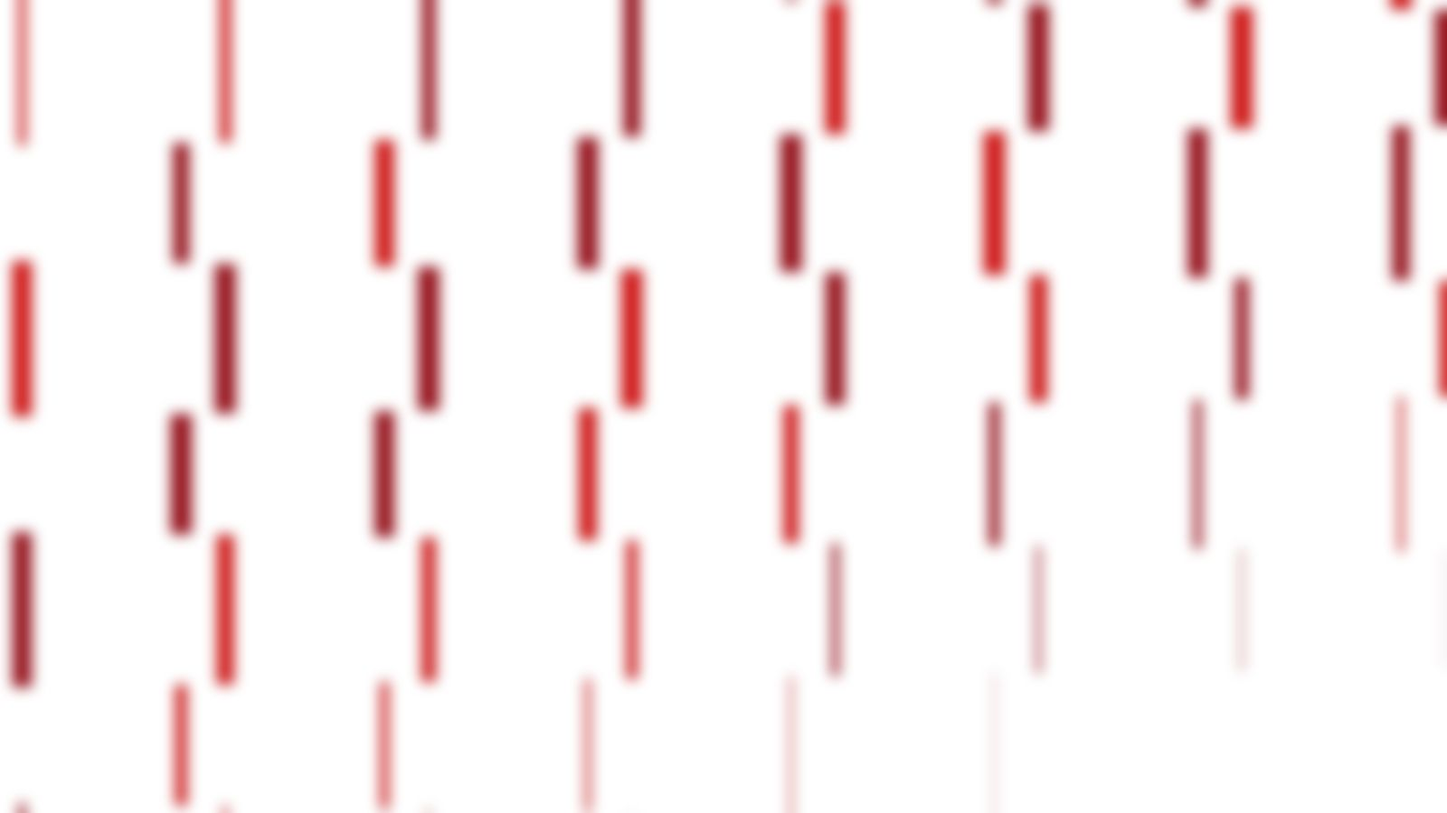
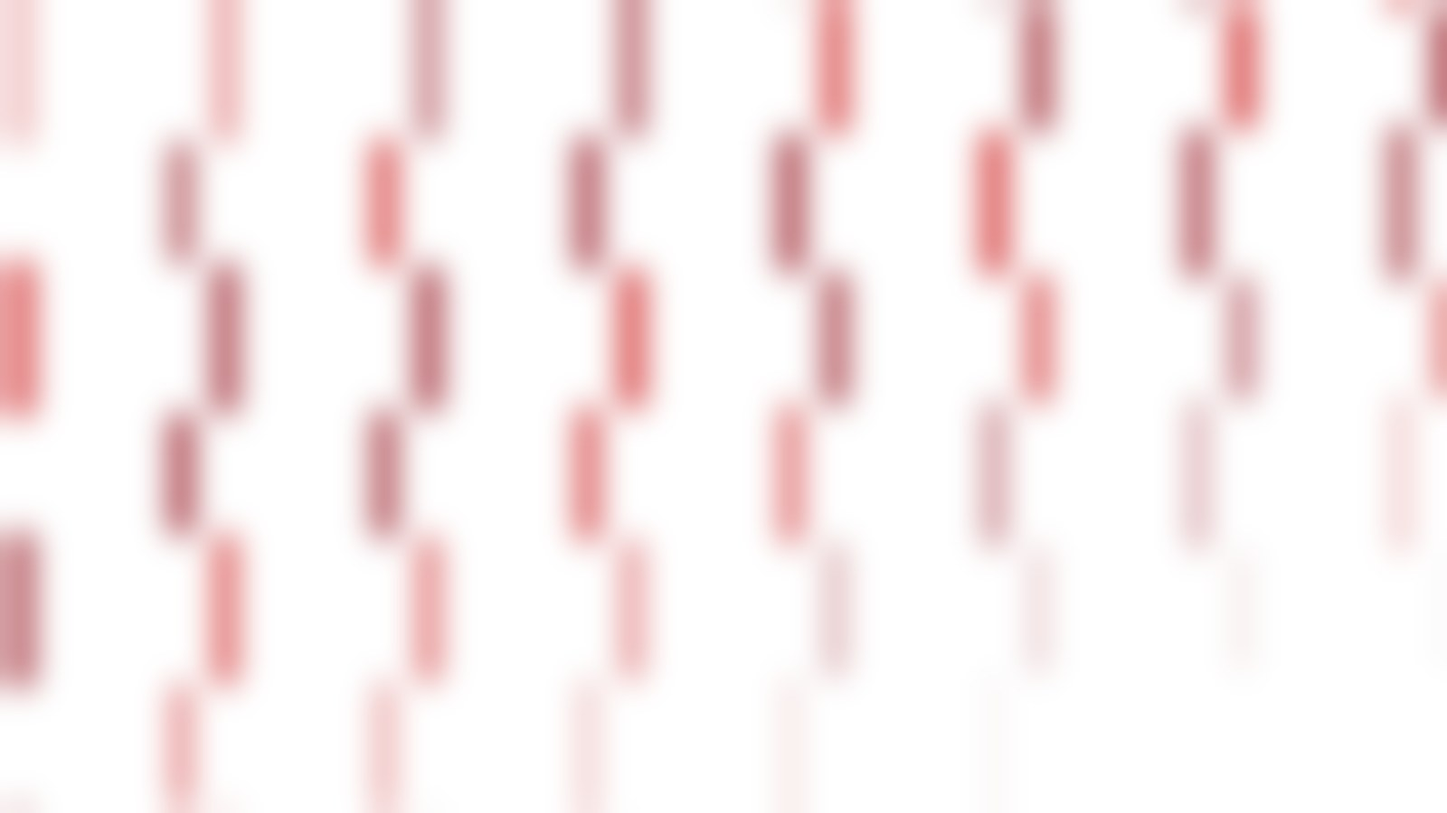
v1.62: full-width home cards, solid top cards, black glass borders, menu gap, blurrier background, triple-tap live test mode
Claude-Session: https://claude.ai/code/session_01VMaw1RNinh1j9DMArVUfZ8

diff --git a/www/index.html b/www/index.html
@@ -20,9 +20,9 @@
 <script src="vendor/capacitor.js"></script>
 <script src="version.js"></script>
 <style>
-:root{--gl-bd:rgb(40 40 40/.14);--gl-hi:inset 0 1px 0 rgb(255 255 255/.85);--sat:env(safe-area-inset-top,0px);--bar:rgb(255 255 255/.62);--bar-tx:#282828;--bar-bd:rgb(40 40 40/.1);--glass:rgb(255 255 255/.62);--menu:rgb(255 255 255/.66);--glass-strong:rgb(244 244 245/.9);--glass-bd:rgb(255 255 255/.55);--blk:#282828;--blk-rgb:40 40 40;--bg:#f4f4f5;--bg-rgb:244 244 245;--sf:#fff;--sf-rgb:255 255 255;--tx:#282828;--mu:#71717a;--bd:#e4e4e7;box-sizing:border-box;padding-bottom:env(safe-area-inset-bottom,0px)}
-@media (prefers-color-scheme:dark){:root:not([data-theme="light"]){color-scheme:dark;--gl-bd:rgb(255 255 255/.16);--gl-hi:inset 0 1px 0 rgb(255 255 255/.07);--menu:rgb(0 0 0/.6);--bar:rgb(0 0 0/.6);--bar-tx:#fff;--bar-bd:rgb(255 255 255/.1);--glass:rgb(0 0 0/.5);--glass-strong:rgb(20 20 22/.88);--glass-bd:rgb(255 255 255/.08);--blk:#000000;--blk-rgb:0 0 0;--bg:#000000;--bg-rgb:0 0 0;--sf:#333333;--sf-rgb:0 0 0;--tx:#f4f4f5;--mu:#a1a1aa;--bd:#444444}}
-:root[data-theme="dark"]{color-scheme:dark;--gl-bd:rgb(255 255 255/.16);--gl-hi:inset 0 1px 0 rgb(255 255 255/.07);--menu:rgb(0 0 0/.6);--bar:rgb(0 0 0/.6);--bar-tx:#fff;--bar-bd:rgb(255 255 255/.1);--glass:rgb(0 0 0/.5);--glass-strong:rgb(20 20 22/.88);--glass-bd:rgb(255 255 255/.08);--blk:#000000;--blk-rgb:0 0 0;--bg:#000000;--bg-rgb:0 0 0;--sf:#333333;--sf-rgb:0 0 0;--tx:#f4f4f5;--mu:#a1a1aa;--bd:#444444}
+:root{--gl-bd:rgb(0 0 0/.3);--gl-hi:inset 0 1px 0 rgb(255 255 255/.85);--sat:env(safe-area-inset-top,0px);--bar:rgb(255 255 255/.62);--bar-tx:#282828;--bar-bd:rgb(40 40 40/.1);--glass:rgb(255 255 255/.62);--menu:rgb(255 255 255/.66);--glass-strong:rgb(244 244 245/.9);--glass-bd:rgb(255 255 255/.55);--blk:#282828;--blk-rgb:40 40 40;--bg:#f4f4f5;--bg-rgb:244 244 245;--sf:#fff;--sf-rgb:255 255 255;--tx:#282828;--mu:#71717a;--bd:#e4e4e7;box-sizing:border-box;padding-bottom:env(safe-area-inset-bottom,0px)}
+@media (prefers-color-scheme:dark){:root:not([data-theme="light"]){color-scheme:dark;--gl-bd:rgb(255 255 255/.3);--gl-hi:inset 0 1px 0 rgb(255 255 255/.07);--menu:rgb(0 0 0/.6);--bar:rgb(0 0 0/.6);--bar-tx:#fff;--bar-bd:rgb(255 255 255/.1);--glass:rgb(0 0 0/.5);--glass-strong:rgb(20 20 22/.88);--glass-bd:rgb(255 255 255/.08);--blk:#000000;--blk-rgb:0 0 0;--bg:#000000;--bg-rgb:0 0 0;--sf:#333333;--sf-rgb:0 0 0;--tx:#f4f4f5;--mu:#a1a1aa;--bd:#444444}}
+:root[data-theme="dark"]{color-scheme:dark;--gl-bd:rgb(255 255 255/.3);--gl-hi:inset 0 1px 0 rgb(255 255 255/.07);--menu:rgb(0 0 0/.6);--bar:rgb(0 0 0/.6);--bar-tx:#fff;--bar-bd:rgb(255 255 255/.1);--glass:rgb(0 0 0/.5);--glass-strong:rgb(20 20 22/.88);--glass-bd:rgb(255 255 255/.08);--blk:#000000;--blk-rgb:0 0 0;--bg:#000000;--bg-rgb:0 0 0;--sf:#333333;--sf-rgb:0 0 0;--tx:#f4f4f5;--mu:#a1a1aa;--bd:#444444}
 html,body{overscroll-behavior:none}html{scroll-padding-top:var(--sat);touch-action:manipulation;-webkit-text-size-adjust:100%}
 body{background:var(--bg);color:var(--tx);font-family:"Noto Sans Hebrew",system-ui,-apple-system,"Segoe UI",Arial,sans-serif;margin:0}
 /* פס הסטטוס שקוף: הכותרת (זכוכית חלבית) נמשכת מתחתיו */
@@ -34,9 +34,10 @@ body::before{content:"";position:fixed;inset:0;z-index:-2;pointer-events:none;ba
 .me-row{background:rgb(210 25 25/.08);color:#b31515}.dt-home{background:#D21919;color:#fff}.dt-away{background:var(--tx);color:var(--bg)}.tint-glass{border:1px solid var(--gl-bd);background:rgb(0 0 0/.09);-webkit-backdrop-filter:blur(24px) saturate(1.8);backdrop-filter:blur(24px) saturate(1.8)}
 @media (prefers-color-scheme:dark){:root:not([data-theme="light"]) .tint-glass{background:rgb(0 0 0/.4)}}:root[data-theme="dark"] .tint-glass{background:rgb(0 0 0/.4)}
 .red-glass{border:1px solid rgb(255 255 255/.28);background:rgb(210 25 25/.72);-webkit-backdrop-filter:blur(24px) saturate(1.8);backdrop-filter:blur(24px) saturate(1.8);box-shadow:inset 0 1px 0 rgb(255 255 255/.18)}
+.sf.p-1.rounded-xl>button{border-radius:11px}
 .seg{background:rgb(0 0 0/.06);border:1px solid var(--gl-bd)}
 @media (prefers-color-scheme:dark){:root:not([data-theme="light"]) .seg{background:rgb(0 0 0/.45)}}:root[data-theme="dark"] .seg{background:rgb(0 0 0/.45)}
-.red-card,[style*="linear-gradient(135deg"]{border:1px solid rgb(255 255 255/.22);box-shadow:inset 0 1px 0 rgb(255 255 255/.18)}
+.red-card,[style*="linear-gradient(135deg"]{border:1px solid var(--gl-bd);box-shadow:inset 0 1px 0 rgb(255 255 255/.18)}
 .on-glass{display:inline-flex;align-items:center;gap:6px;background:rgb(var(--sf-rgb)/.62);-webkit-backdrop-filter:blur(24px) saturate(1.8);backdrop-filter:blur(24px) saturate(1.8);border:1px solid var(--gl-bd);border-radius:999px;padding:3px 10px;max-width:100%}
 .on-glass.box{border-radius:12px;padding:6px 10px}.on-glass.txt{display:inline-block;border-radius:12px;padding:4px 12px;line-height:1.6}
 .fbar{position:sticky;top:var(--hdh,64px);z-index:18;margin:0 -12px;padding:4px 12px 0;border-bottom:1px solid transparent;transition:background-color .2s var(--ease),border-color .2s var(--ease),padding .2s var(--ease),box-shadow .2s var(--ease)}
@@ -66,7 +67,7 @@ button,a{-webkit-tap-highlight-color:transparent;transition:transform .18s var(-
 @media (prefers-color-scheme:dark){:root:not([data-theme="light"]) .text-green-700{color:#4ade80}:root:not([data-theme="light"]) .me-row{background:rgb(210 25 25/.18);color:#ff5c5c}:root:not([data-theme="light"]) .nav-pill.on{background:rgb(210 25 25/.25)}}
 :root[data-theme="dark"] .text-green-700{color:#4ade80}:root[data-theme="dark"] .me-row{background:rgb(210 25 25/.18);color:#ff5c5c}:root[data-theme="dark"] .nav-pill.on{background:rgb(210 25 25/.25)}
 @media (prefers-reduced-motion:reduce){*,*::before,*::after{animation:none!important;transition:none!important}}
-.car{display:flex;gap:10px;overflow-x:auto;scroll-snap-type:x mandatory;scrollbar-width:none;overscroll-behavior-x:contain;padding:2px 28px;scroll-padding:0 28px}.car::-webkit-scrollbar{display:none}.car>*{flex:0 0 100%;min-width:0;scroll-snap-align:center}.car .sf{box-shadow:var(--gl-hi)}
+.car{display:flex;gap:12px;overflow-x:auto;scroll-snap-type:x mandatory;scrollbar-width:none;overscroll-behavior-x:contain;padding:6px 12px;margin:-6px 0;scroll-padding:0 12px}.car::-webkit-scrollbar{display:none}.car>*{flex:0 0 100%;min-width:0;scroll-snap-align:center}.car .sf{box-shadow:var(--gl-hi)}
 </style>
 </head>
 <body>
@@ -220,6 +221,26 @@ const mkLive=(d,f)=>{const jh=d.homeCompetitor&&d.homeCompetitor.id===634,num=x=
   q:(d.stages||[]).filter(x=>x.homeCompetitorScore>=0&&x.awayCompetitorScore>=0&&/רבע|הארכה|ר'|OT|Q/.test(x.name||x.shortName||'')).map(x=>({n:x.shortName||x.name,h:num(x.homeCompetitorScore),a:num(x.awayCompetitorScore)})),
   top:((d.topPerformers&&d.topPerformers.categories)||[]).map(c=>({n:c.name,h:c.homePlayer&&{p:c.homePlayer.name,v:((c.homePlayer.stats||[])[0]||{}).value},a:c.awayPlayer&&{p:c.awayPlayer.name,v:((c.awayPlayer.stats||[])[0]||{}).value}})),
   url:url365(f),at:Date.now()}};
+
+/* מצב בדיקה (3 לחיצות על השורה שבתחתית מסך הבית): הדמיה של המשחק הבא כאילו הוא בלייב, על בסיס הסטטיסטיקות של המשחק האחרון. שום נתון לא נשמר */
+function mkDemo(n,F){const src=F.filter(f=>f.r&&GS[f.id]&&GS[f.id].q).sort((a,b)=>b.t-a.t)[0],g0=src?GS[src.id]:null,jh=!!n.h,
+  q=(g0?g0.q.slice(0,3).map(x=>x.slice()):[[22,18],[19,21],[24,20]]).concat([[7,5]]),sc=[0,1].map(i=>q.reduce((a,x)=>a+x[i],0)),
+  pn=i=>((g0&&g0.pl&&g0.pl[i])||[]).map(r=>r[0]).filter(Boolean),J=pn(0),O=pn(1),pick=a=>a.length?a[Math.random()*a.length|0]:'';
+ const L={app:n.id,id:0,jh,status:'live',st:'רבע 4',clock:'07:40',q:[],top:[],url:url365(n),demo:1,J,O,pick,qa:q,
+  gs:g0?{...g0,q}:null,pbp:[{q:4,clock:'10:00',side:null,text:'תחילת רבע 4',big:0,sc:null}]};
+ const s0=[sc[0]-q[3][0],sc[1]-q[3][1]];L.pbp.unshift({q:4,clock:'08:55',side:'j',text:(pick(J)||ME)+' – קליעה ל-2',big:1,sc:[s0[0]+2,s0[1]]});
+ return demoSync(L,sc)}
+const demoSync=(L,sc)=>{const r=[sc[0],sc[1]],hs=L.jh?r[0]:r[1],as=L.jh?r[1]:r[0];
+ return{...L,r,hs,as,at:Date.now(),q:L.qa.map((x,i)=>({n:i<4?'ר'+(i+1):'הא'+(i-3),h:L.jh?x[0]:x[1],a:L.jh?x[1]:x[0]})),gs:L.gs?{...L.gs,q:L.qa}:null}};
+/* כל כמה שניות: השעון מתקדם, ולפעמים אחת הקבוצות קולעת */
+function demoTick(L){const t=L.clock.split(':').map(Number);let sec=t[0]*60+t[1]-12,st=L.st,qa=L.qa.map(x=>x.slice()),pbp=L.pbp.slice(),qn=qa.length;
+ if(sec<=0){sec=300;qa.push([0,0]);qn=qa.length;st='הארכה';pbp.unshift({q:qn,clock:'05:00',side:null,text:'תחילת הארכה',big:0,sc:null})}
+ const clock=String(sec/60|0).padStart(2,'0')+':'+String(sec%60).padStart(2,'0');
+ if(Math.random()<.7){const i=Math.random()<.55?0:1,pts=[2,2,3,1][Math.random()*4|0];qa[qa.length-1][i]+=pts;
+  const sc=[0,1].map(k=>qa.reduce((a,x)=>a+x[k],0));
+  pbp.unshift({q:qn,clock,side:i?'o':'j',text:(L.pick(i?L.O:L.J)||(i?'יריבה':ME))+' – '+(pts===3?'שלשה':pts===2?'קליעה ל-2':'קליעה מהעונשין'),big:1,sc})}
+ const sc=[0,1].map(k=>qa.reduce((a,x)=>a+x[k],0));
+ return demoSync({...L,st,clock,qa,pbp},sc)}
 
 function useSportsData(){
  const [s,setS]=useState({ld:1,up:null,mode:'Snapshot',F:F0});
@@ -630,7 +651,7 @@ function Pbp({L}){
 function Game({g}){
  const A=useContext(Ctx),LG=A.lg&&A.lg.app===g.id&&A.lg.status!=='pre'?A.lg:null,[tb,setTb]=useState('g'),gs=LG&&LG.gs?LG.gs:(GS[g.id]||liveGS()[g.id]),gg=LG?{...g,r:LG.r}:g,pf=Array.isArray(GP[g.id])?GP[g.id].filter(p=>Array.isArray(p)&&p.length>1):null,hm=g.h?ME:g.o,aw=g.h?g.o:ME,sc=g.r?(g.h?[g.r[0],g.r[1]]:[g.r[1],g.r[0]]):null;
  return html`<div><button onClick=${()=>A.setGm(null)} class="on-glass back-stick text-[#D21919] font-bold mb-3"><${I} n="back" s=${16}/>חזרה</button>
- ${LG?html`<div class="rounded-2xl p-4 text-white" style=${{background:'linear-gradient(135deg,rgb(210 25 25/.86),rgb(var(--blk-rgb)/.72))',WebkitBackdropFilter:'blur(24px) saturate(1.8)',backdropFilter:'blur(24px) saturate(1.8)'}}><div class="text-xs opacity-80 mb-3">${cmp(g)} · ${fdf(g)}</div><${LiveScore} L=${LG} g=${g} big=${1}/></div><div class="mt-2 text-center"><span class="on-glass text-[11px] mu">${LG.status==='live'?'סטטיסטיקות בלייב מ-365scores · מתעדכן כל 20 שניות':'סטטיסטיקות סיום מ-365scores'}</span></div>`:html`<div class="rounded-2xl p-4 text-white" style=${{background:'linear-gradient(135deg,rgb(210 25 25/.86),rgb(var(--blk-rgb)/.72))',WebkitBackdropFilter:'blur(24px) saturate(1.8)',backdropFilter:'blur(24px) saturate(1.8)'}}><div class="text-xs opacity-80 mb-3">${cmp(g)} · ${fdf(g)}</div>
+ ${LG?html`<div class="rounded-2xl p-4 text-white" style=${{background:'linear-gradient(135deg,#D21919,var(--blk))'}}><div class="text-xs opacity-80 mb-3">${cmp(g)} · ${fdf(g)}</div><${LiveScore} L=${LG} g=${g} big=${1}/></div><div class="mt-2 text-center"><span class="on-glass text-[11px] mu">${LG.status==='live'?'סטטיסטיקות בלייב מ-365scores · מתעדכן כל 20 שניות':'סטטיסטיקות סיום מ-365scores'}</span></div>`:html`<div class="rounded-2xl p-4 text-white" style=${{background:'linear-gradient(135deg,#D21919,var(--blk))'}}><div class="text-xs opacity-80 mb-3">${cmp(g)} · ${fdf(g)}</div>
  <div class="flex items-center justify-around text-center"><div><${Cr} n=${hm} s=${68}/><div class="text-sm mt-1">${hm}</div></div>${sc?html`<div class="flex gap-2 text-4xl font-semibold sb" dir="rtl"><span>${sc[0]}</span><span class="opacity-60">–</span><span>${sc[1]}</span></div>`:html`<div class="text-2xl font-semibold sb opacity-80">VS</div>`}<div><${Cr} n=${aw} s=${68}/><div class="text-sm mt-1">${aw}</div></div></div>
  <div class="text-xs opacity-80 mt-3 flex items-center justify-center gap-1"><${I} n="pin" s=${14}/>${g.v||(g.h?'משחק בית':'משחק חוץ')}</div></div>`}
  ${g.r&&!LG?(ytId(g)?html`<div class="mt-3 rounded-xl overflow-hidden bg-black fade-in" style=${{aspectRatio:'16/9'}}><iframe key=${ytId(g)} src=${'https://www.youtube-nocookie.com/embed/'+ytId(g)+'?rel=0&playsinline=1'} title="תקציר המשחק" class="w-full h-full border-0" loading="lazy" referrerPolicy="strict-origin-when-cross-origin" allow="accelerometer; autoplay; clipboard-write; encrypted-media; gyroscope; picture-in-picture; web-share" allowFullScreen></iframe></div>`
@@ -678,7 +699,7 @@ function Player({p}){
  tt=ks.reduce((t,k)=>t.map((x,i)=>x+by[k][i]),new Array(17).fill(0)),fm=md==='a'?avgRow:totRow,ag=ageOf(p[5]),
  HD=['מש׳','דק׳','נק׳','ריב׳','אס׳','חט׳','חס׳',md==='a'?'FG%':'FG',md==='a'?'3P%':'3P',md==='a'?'FT%':'FT','ר״ה','ר״ג','איב׳','עב׳'];
  return html`<div class="stg"><button onClick=${()=>A.setPl(null)} class="on-glass back-stick text-[#D21919] font-bold mb-3"><${I} n="back" s=${16}/>חזרה לסגל</button>
- <div class="rounded-2xl text-white overflow-hidden flex items-stretch" style=${{background:'linear-gradient(135deg,rgb(210 25 25/.86),rgb(var(--blk-rgb)/.72))',WebkitBackdropFilter:'blur(24px) saturate(1.8)',backdropFilter:'blur(24px) saturate(1.8)'}}>
+ <div class="rounded-2xl text-white overflow-hidden flex items-stretch" style=${{background:'linear-gradient(135deg,#D21919,var(--blk))'}}>
   <div class="w-[132px] shrink-0 relative ph-in" style=${{aspectRatio:'4/5'}}><${Ph} u=${p[6]} n=${p[0]} k=${p[9]} cls="absolute inset-0 w-full h-full object-cover object-top"/></div>
   <div class="p-4 flex-1 flex flex-col justify-center min-w-0 nm-in"><div class="text-5xl font-semibold sb opacity-90 leading-none num-in">${p[0]}</div><div class="text-xl font-bold leading-tight mt-1">${p[1]}</div><div class="text-sm opacity-80 mt-1">${p[2]}</div></div></div>
  <div class="stg grid grid-cols-2 gap-2 mt-3">${[['גובה',p[3]+' מ׳'],['אזרחות',p[4]],['תאריך לידה',p[5]+(ag!==''?' · גיל '+ag:'')],['עמדה',p[2]]].map(([l,v])=>html`<div key=${l} class="sf rounded-xl p-3"><div class="text-xs mu">${l}</div><div class="font-medium text-sm mt-0.5">${v}</div></div>`)}</div>
@@ -722,7 +743,7 @@ let FRBLK=typeof location!=='undefined'&&/claudeusercontent\.com$/.test(location
 function ExtPage({k,box}){
  const A=useContext(Ctx),u=EXT[k],nx=k==='tix'?A.F.filter(f=>!f.r&&f.h).sort((a,b)=>a.t-b.t).slice(0,6):[];
  return html`<div class="fixed inset-x-0 z-20 overflow-y-auto" style=${{...box,background:'var(--bg)'}}><div class="max-w-3xl md:max-w-5xl lg:max-w-6xl mx-auto p-3 space-y-3">
- <div class="rounded-2xl text-white p-5 text-center" style=${{background:'linear-gradient(135deg,rgb(210 25 25/.86),rgb(var(--blk-rgb)/.72))',WebkitBackdropFilter:'blur(24px) saturate(1.8)',backdropFilter:'blur(24px) saturate(1.8)'}}><div class="text-2xl font-semibold sb">${EXI[k][0]}</div><div class="text-sm opacity-80 mt-1 mb-4">${ME}</div><${Cta} href=${u}>${EXI[k][1]}<//></div>
+ <div class="rounded-2xl text-white p-5 text-center" style=${{background:'linear-gradient(135deg,#D21919,var(--blk))'}}><div class="text-2xl font-semibold sb">${EXI[k][0]}</div><div class="text-sm opacity-80 mt-1 mb-4">${ME}</div><${Cta} href=${u}>${EXI[k][1]}<//></div>
  <div class="text-xs mu">${EMB[k]?'התצוגה שבה האפליקציה פועלת חוסמת הצגה של אתרים חיצוניים בתוך האפליקציה, ולכן האתר נפתח בלשונית נפרדת. בגרסה העצמאית של האפליקציה הוא מוצג כאן ישירות.':'האתר הרשמי לא מאפשר הצגה בתוך אפליקציות אחרות, ולכן הוא נפתח בלשונית נפרדת בדפדפן. אחרי הפעולה אפשר לחזור לכאן.'}</div>
  ${nx.length?html`<div class="font-bold">משחקי הבית הקרובים</div><div class="space-y-2">${nx.map(f=>html`<a key=${f.id} href=${u} target="_blank" rel="noopener noreferrer" class="sf rounded-xl p-3 flex items-center gap-3"><${Cr} n=${f.o}/><div class="flex-1 min-w-0"><div class="font-medium truncate">${ME+' – '+f.o}</div><div class="text-xs mu">${fdf(f)}</div><div class="text-xs mu">${cmp(f)} · ${f.v||'משחק בית'}</div></div><span class="text-xs font-medium text-[#D21919] whitespace-nowrap">לכרטיסים</span></a>`)}</div>`:null}
  </div></div>`;
@@ -875,7 +896,8 @@ function App(){
  const togRem=f=>{const L=LN();if(L){const on=!rem[f.id],at=f.t-H;if(on&&at>Date.now()&&!f.tbd&&pf.hour&&pf.on!==0)L.schedule({notifications:[{id:f.id%2147483647,title:ME,body:'תזכורת: '+(f.h?ME+' – '+f.o:f.o+' – '+ME)+' מתחיל בעוד שעה',schedule:{at:new Date(at),allowWhileIdle:true},smallIcon:'ic_stat_hpj',iconColor:'#D21919'}]}).catch(()=>{});else L.cancel({notifications:[{id:f.id%2147483647}]}).catch(()=>{})}setRem(r=>({...r,[f.id]:!r[f.id]}));toast(rem[f.id]?'התזכורת בוטלה':'תזכורת למשחק הוגדרה בהצלחה')};
  const nx=S.F.filter(f=>!f.r).sort((a,b)=>a.t-b.t)[0];
  /* לייב: מ-10 דקות לפני שריקת הפתיחה ועד הסיום – בדיקה ב-365scores כל 20 שניות */
- const [lg,setLg]=useState(null),lgRef=useRef(null);
+ const [lg,setLg]=useState(null),lgRef=useRef(null),[demo,setDemo]=useState(null),taps=useRef([]);
+ useEffect(()=>{if(!demo)return;const i=setInterval(()=>setDemo(d=>d&&demoTick(d)),4000);return()=>clearInterval(i)},[!!demo]);
  useEffect(()=>{let stop=false,tm=null;
   const tick=async()=>{let wait=60000;
    try{const n=S.F.filter(f=>!f.r).sort((a,b)=>a.t-b.t)[0];
@@ -908,9 +930,12 @@ function App(){
  const atRoot=!st&&!dr&&!gm&&!pl&&pg==='home',skipPop=useRef(false);
  useEffect(()=>{if(NATIVE)return;const f=()=>{if(skipPop.current){skipPop.current=false;return}backRef.current()};window.addEventListener('popstate',f);return()=>window.removeEventListener('popstate',f)},[]);
  useEffect(()=>{if(NATIVE)return;const marked=!!(history.state&&history.state.hpj);try{if(!atRoot&&!marked)history.pushState({hpj:1},'');else if(atRoot&&marked){skipPop.current=true;history.back()}}catch(e){}},[atRoot,st,dr,!!gm,!!pl,pg]);
- const A={...S,st,setSt,checkUpd,go,pg,pl,setPl,gm,setGm,lg,rem,togRem,toast,notes,setNotes,pf,setPf,perm,setPerm,setDr,nf};
+ /* 3 לחיצות מהירות על השורה שבתחתית מסך הבית מפעילות / מכבות את מצב הבדיקה */
+ const tapFoot=()=>{if(pg!=='home'||gm)return;const t=Date.now();taps.current=taps.current.filter(x=>t-x<700).concat(t);if(taps.current.length<3)return;taps.current=[];if(demo){setDemo(null);toast('מצב בדיקה כובה')}else if(nx){setDemo(mkDemo(nx,S.F));toast('מצב בדיקה: המשחק הבא מוצג כמשחק בלייב')}};
+ const A={...S,st,setSt,checkUpd,go,pg,pl,setPl,gm,setGm,lg:demo||lg,rem,togRem,toast,notes,setNotes,pf,setPf,perm,setPerm,setDr,nf};
  const Pg=PG[pg],unread=notes.filter(n=>!n.r).length;
  /* גובה הכותרת (כולל פס הסטטוס), בשביל סרגלי הסינון וכפתורי החזרה שנצמדים מתחתיה */
+ useEffect(()=>{const n=document.getElementById('app-nav');if(!n)return;const set=()=>document.documentElement.style.setProperty('--navh',n.getBoundingClientRect().height+'px');set();let ro=null;try{ro=new ResizeObserver(set);ro.observe(n)}catch(e){}return()=>{ro&&ro.disconnect()}},[]);
  useEffect(()=>{const h=document.getElementById('app-hd');if(!h)return;const set=()=>document.documentElement.style.setProperty('--hdh',h.getBoundingClientRect().height+'px');set();let ro=null;try{ro=new ResizeObserver(set);ro.observe(h)}catch(e){}return()=>{ro&&ro.disconnect()}},[pg]);
  return html`<${Ctx.Provider} value=${A}>
  <${PullRefresh} onRefresh=${S.refresh} off=${!!(EXT[pg]||dr||st||mo||upd)}/>
@@ -919,9 +944,9 @@ function App(){
   :html`<div class="flex-1 min-w-0"><div class="font-extrabold text-xl leading-tight truncate">${pl&&pg==='roster'?pl[1]:PGT[pg]}</div><div class="text-xs leading-tight mt-0.5 opacity-60">עונת ${SEASON}</div></div>`}
   ${['home','sched','stand','roster'].includes(pg)?html`<button onClick=${()=>setSt(true)} class="p-2" aria-label="הגדרות"><${I} n="cog" s=${22}/></button>`:null}<button onClick=${()=>setDr(true)} class="relative p-2" aria-label="התראות"><${I} n="bell" s=${22}/>${unread>0&&html`<span class="absolute top-0.5 left-0.5 min-w-[18px] h-[18px] rounded-full bg-[#D21919] text-white text-[11px] font-medium flex items-center justify-center">${unread}</span>`}</button></div></header>`}
  <div class="fixed inset-x-0 z-[60] flex flex-col items-center gap-2 pointer-events-none" style=${{top:'calc(var(--sat) + 64px)'}}>${toasts.map(t=>html`<div key=${t.id} class="pointer-events-auto bg-[#D21919] text-white text-sm px-4 py-2 rounded-xl shadow-lg max-w-[92%]">${t.t}</div>`)}</div>
- <main class="max-w-3xl md:max-w-5xl lg:max-w-6xl mx-auto p-3 pb-28"><div key=${gm?'g'+gm.id:'p'+pg} class=${!gm&&EXT[pg]?'':'pg-in'}>${gm?html`<${Game} g=${gm}/>`:html`<${Pg}/>`}</div><div class="text-center mt-6"><span class="on-glass txt text-[11px] mu">נתונים: 365scores, איגוד הכדורסל ו-EuroLeague · גרסה ${window.APP_VERSION||''} · <a href=${LINKS.club} target="_blank" rel="noopener noreferrer" class="underline whitespace-nowrap">האתר הרשמי</a></span></div></main>
+ <main class="max-w-3xl md:max-w-5xl lg:max-w-6xl mx-auto p-3 pb-28"><div key=${gm?'g'+gm.id:'p'+pg} class=${!gm&&EXT[pg]?'':'pg-in'}>${gm?html`<${Game} g=${gm}/>`:html`<${Pg}/>`}</div><div class="text-center mt-6"><span onClick=${tapFoot} class="on-glass txt text-[11px] mu select-none">${demo?html`<b class="text-[#D21919]">מצב בדיקה · </b>`:null}נתונים: 365scores, איגוד הכדורסל ו-EuroLeague · גרסה ${window.APP_VERSION||''} · <a href=${LINKS.club} target="_blank" rel="noopener noreferrer" class="underline whitespace-nowrap">האתר הרשמי</a></span></div></main>
  ${mo?html`<div class="fixed inset-0 z-[44]" onClick=${()=>setMo(false)}></div>
- <div class="fixed z-[46] left-3 w-56 rounded-2xl overflow-hidden shadow-lg pop-in glass glass-menu" style=${{bottom:'calc(68px + env(safe-area-inset-bottom,0px))',transformOrigin:'bottom left'}}>
+ <div class="fixed z-[46] left-3 w-56 rounded-2xl overflow-hidden shadow-lg pop-in glass glass-menu" style=${{bottom:'calc(var(--navh,70px) + 10px)',transformOrigin:'bottom left'}}>
   ${MORE.map(([k,l,ic,sub])=>html`<button key=${k} onClick=${()=>go(k)} class=${'w-full flex items-center gap-3 px-4 py-3 text-right border-b bd last:border-0 '+(pg===k?'text-[#D21919]':'')}><span class="w-9 h-9 rounded-full flex items-center justify-center bg-[#D21919] text-white shrink-0"><${I} n=${ic} s=${18}/></span><span class="min-w-0"><span class="block font-medium">${l}</span><span class="block text-[11px] mu truncate">${sub}</span></span></button>`)}
  </div>`:null}
  <nav id="app-nav" class="fixed bottom-0 inset-x-0 z-[45] border-t glass-bar" style=${{borderColor:'var(--gl-bd)',paddingBottom:'env(safe-area-inset-bottom,0px)'}}><div class="max-w-3xl md:max-w-5xl lg:max-w-6xl mx-auto flex">${NAV.map(([k,l,ic])=>{const on=k==='more'?(mo||!!EXT[pg]):pg===k&&!mo;return html`<button key=${k} onClick=${()=>k==='more'?setMo(!mo):go(k)} aria-expanded=${k==='more'?String(mo):undefined} class=${'flex-1 flex flex-col items-center gap-1 py-2 text-[11px] '+(on?'text-[#D21919] font-bold':'opacity-75')}><span class=${'nav-pill flex items-center justify-center h-8 w-14 rounded-full '+(on?'on':'')}><${I} n=${ic} s=${21}/></span>${l}</button>`})}</div></nav>

diff --git a/www/sw.js b/www/sw.js
@@ -1,7 +1,7 @@
 // Service worker: works offline after the first visit.
 // data.json is network-first (fresh results when online, last copy when offline);
 // everything else is cache-first with a background refresh.
-const CACHE = 'hpj-v1.61';
+const CACHE = 'hpj-v1.62';
 const CORE = [
   './', './index.html', './manifest.webmanifest', './data.json', './crests.json', './photos.json',
   './icons/icon-192.png', './icons/icon-512.png', './icons/notify-badge.png',

diff --git a/www/version.js b/www/version.js
@@ -1,1 +1,1 @@
-window.APP_VERSION='1.61';
+window.APP_VERSION='1.62';

diff --git a/CHANGELOG.md b/CHANGELOG.md
@@ -3,6 +3,15 @@
 כל גרסה של האפליקציה מקבלת כאן פסקה משלה, והפסקה הזו מופיעה גם בעמוד הגרסה ב-GitHub Releases.
 הגרסה החדשה ביותר למעלה.
 
+## 1.62
+- הכרטיסים במסך הבית (המשחק הקודם, הבא ושאחריו) ברוחב של שאר הכרטיסים באפליקציה, והאנימציה שלהם לא נחתכת.
+- הכרטיס העליון בעמודי המשחקים והשחקנים מקבל את אותו עיצוב כמו כרטיס המשחק הבא במסך הבית.
+- הפינות של הכפתורים בסרגלי הבחירה מתאימות למסגרת שסביבם.
+- תפריט "עוד" נפתח במרווח קטן מעל פס הניווט.
+- מסגרת ברורה לכל הכרטיסים: שחורה במצב בהיר, אפורה-לבנה במצב כהה.
+- הרקע מטושטש יותר, בשני המצבים.
+- מצב בדיקה: 3 לחיצות על השורה שבתחתית מסך הבית מציגות את המשחק הבא כאילו הוא בלייב (תוצאה, רבעים, סטטיסטיקות ומהלך המשחק). 3 לחיצות נוספות מכבות אותו.
+
 ## 1.61
 - כרטיס הלייב במסך הבית:
   - כותרת גדולה "הפועל לייב" מעל ה-LIVE ושעון המשחק.
